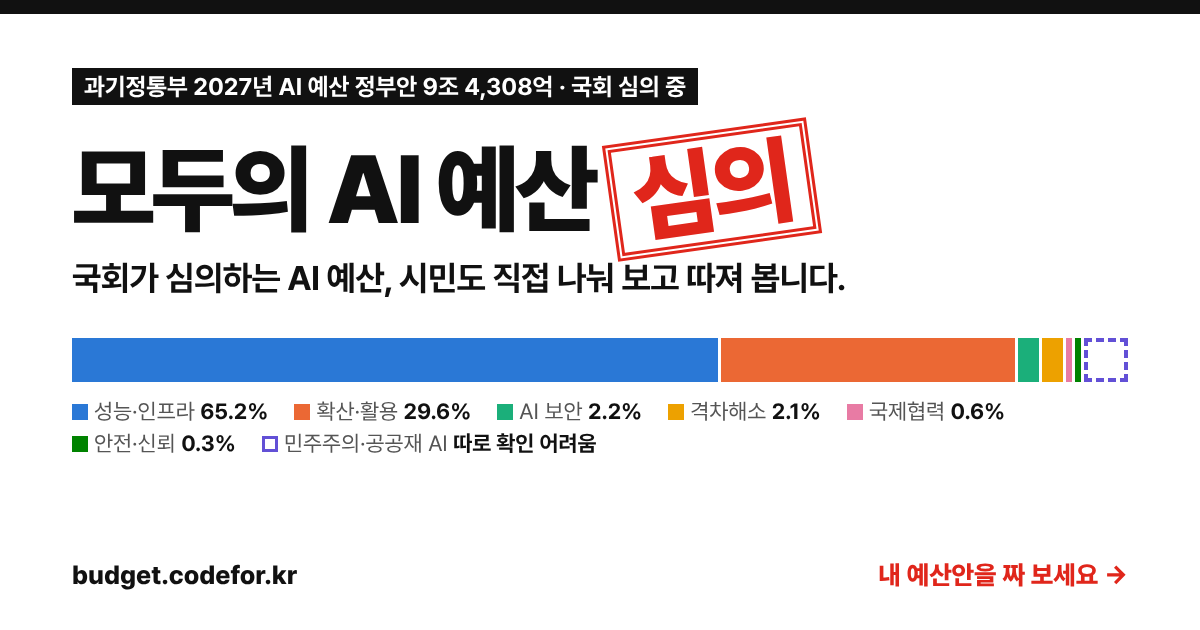
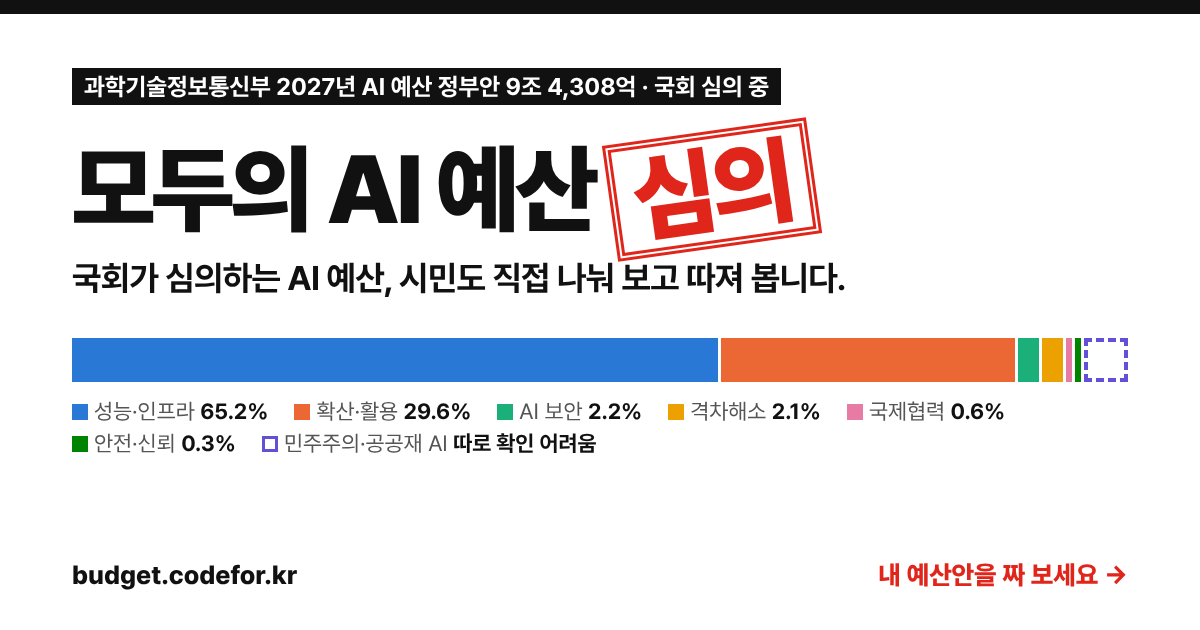
링크 미리보기 이미지에도 부처 이름을 「과학기술정보통신부」로 다 쓴다
og.png 맨 위 줄의 「과기정통부」를 풀어 써서 다시 그린다(같은 디자인·숫자).
카카오톡·SNS가 예전 이미지를 다시 받아 가도록 세 페이지의 og:image 주소 번호를 바꾼다.

Claude-Session: https://claude.ai/code/session_01Ktu4QbFaQCfALrcTVpAdpL

Changed region(s): [[0.0925, 0.0905, 0.6783, 0.181]]

diff --git a/deliberation/index.html b/deliberation/index.html
@@ -12,12 +12,12 @@
   <meta property="og:description" content="예산안 전체, 대분류, 분야마다 시민이 남긴 질문·제안입니다.">
   <meta property="og:url" content="https://budget.codefor.kr/deliberation/">
   <meta property="og:locale" content="ko_KR">
-  <meta property="og:image" content="https://budget.codefor.kr/og.png?v=202611012225">
+  <meta property="og:image" content="https://budget.codefor.kr/og.png?v=202611032340">
   <meta property="og:image:width" content="1200">
   <meta property="og:image:height" content="630">
   <meta property="og:image:alt" content="모두의 AI 예산 심의: 2027년 AI 예산 정부안을 대분류별 비중 막대로 나눈 그림">
   <meta name="twitter:card" content="summary_large_image">
-  <meta name="twitter:image" content="https://budget.codefor.kr/og.png?v=202611012225">
+  <meta name="twitter:image" content="https://budget.codefor.kr/og.png?v=202611032340">
   <link rel="icon" href="../favicon.svg" type="image/svg+xml">
   <link rel="apple-touch-icon" href="../apple-touch-icon.png">
   <meta name="theme-color" content="#ffffff" media="(prefers-color-scheme: light)">

diff --git a/index.html b/index.html
@@ -12,12 +12,12 @@
   <meta property="og:description" content="국회가 심의하는 AI 예산, 시민도 직접 나눠 보고 따져 봅니다.">
   <meta property="og:url" content="https://budget.codefor.kr/">
   <meta property="og:locale" content="ko_KR">
-  <meta property="og:image" content="https://budget.codefor.kr/og.png?v=202611012225">
+  <meta property="og:image" content="https://budget.codefor.kr/og.png?v=202611032340">
   <meta property="og:image:width" content="1200">
   <meta property="og:image:height" content="630">
   <meta property="og:image:alt" content="모두의 AI 예산 심의: 2027년 AI 예산 정부안을 대분류별 비중 막대로 나눈 그림">
   <meta name="twitter:card" content="summary_large_image">
-  <meta name="twitter:image" content="https://budget.codefor.kr/og.png?v=202611012225">
+  <meta name="twitter:image" content="https://budget.codefor.kr/og.png?v=202611032340">
   <link rel="icon" href="favicon.svg" type="image/svg+xml">
   <link rel="apple-touch-icon" href="apple-touch-icon.png">
   <meta name="theme-color" content="#ffffff" media="(prefers-color-scheme: light)">

diff --git a/budgets/index.html b/budgets/index.html
@@ -12,12 +12,12 @@
   <meta property="og:description" content="시민이 직접 짠 2027년 AI 예산안입니다.">
   <meta property="og:url" content="https://budget.codefor.kr/budgets/">
   <meta property="og:locale" content="ko_KR">
-  <meta property="og:image" content="https://budget.codefor.kr/og.png?v=202611012225">
+  <meta property="og:image" content="https://budget.codefor.kr/og.png?v=202611032340">
   <meta property="og:image:width" content="1200">
   <meta property="og:image:height" content="630">
   <meta property="og:image:alt" content="모두의 AI 예산 심의: 2027년 AI 예산 정부안을 대분류별 비중 막대로 나눈 그림">
   <meta name="twitter:card" content="summary_large_image">
-  <meta name="twitter:image" content="https://budget.codefor.kr/og.png?v=202611012225">
+  <meta name="twitter:image" content="https://budget.codefor.kr/og.png?v=202611032340">
   <link rel="icon" href="../favicon.svg" type="image/svg+xml">
   <link rel="apple-touch-icon" href="../apple-touch-icon.png">
   <meta name="theme-color" content="#ffffff" media="(prefers-color-scheme: light)">
